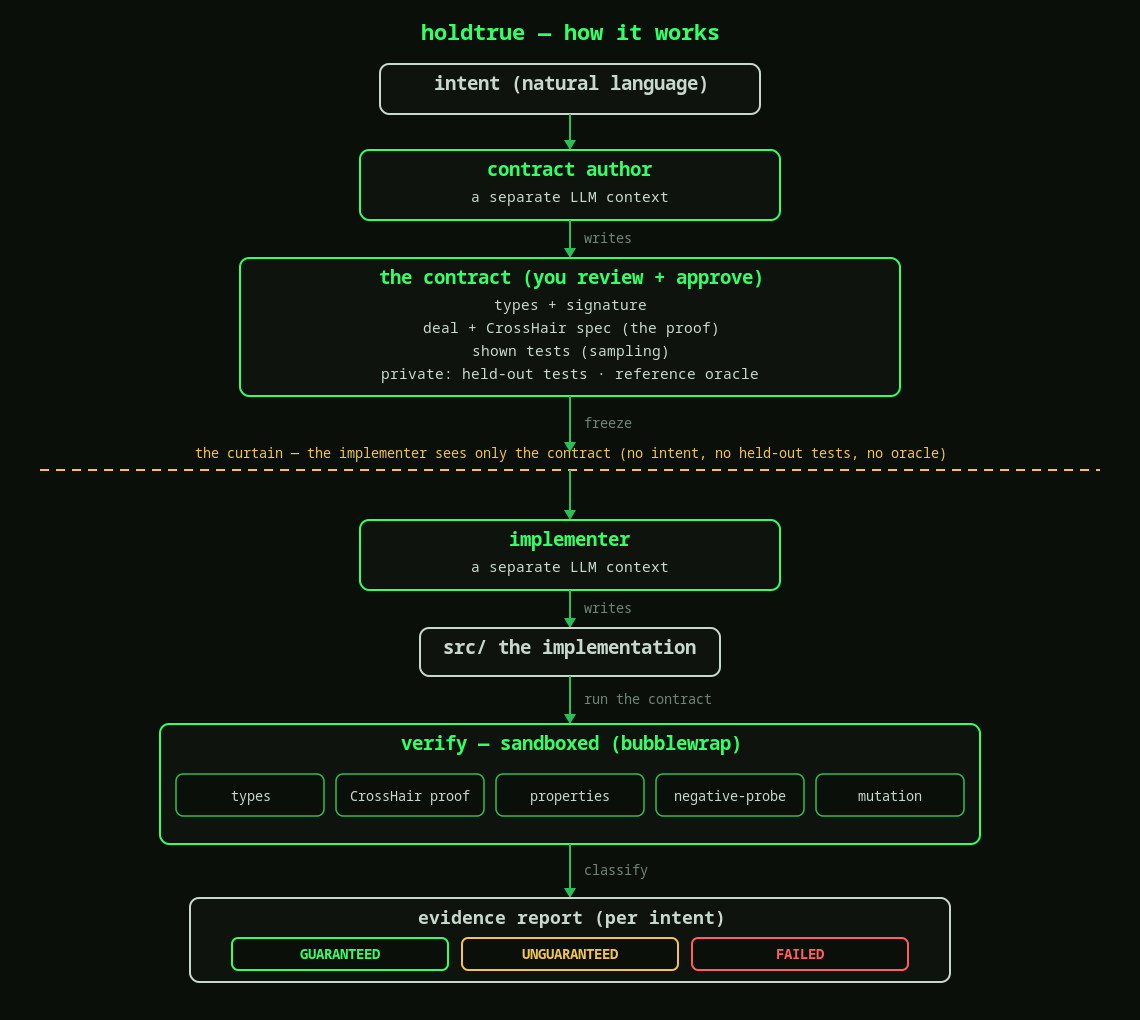
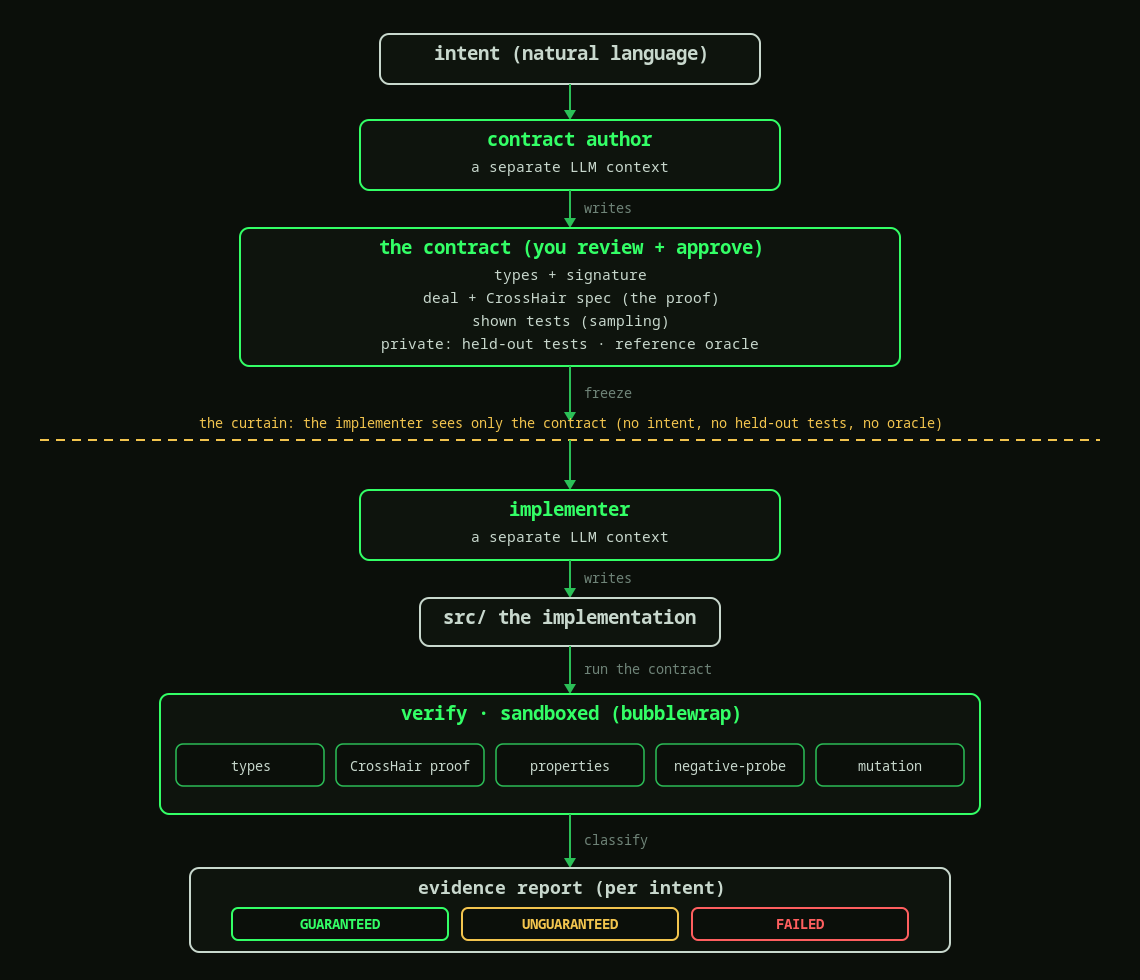
README: drop diagram title and the Stack section
The how-it-works diagram loses its in-image title (the README heading already names
it); the Stack section is dropped (the website's powered-by row carries it).

diff --git a/README.md b/README.md
@@ -30,7 +30,3 @@ Watch it run live in a TUI:
 ```
 uv run python -m holdtrue.cli tui examples/clamp --impl examples/clamp/controls/correct.py
 ```
-
-## Stack
-
-deal + CrossHair (proof), Hypothesis (properties), cosmic-ray (mutation), mypy, bubblewrap. Python 3.12, managed with uv.